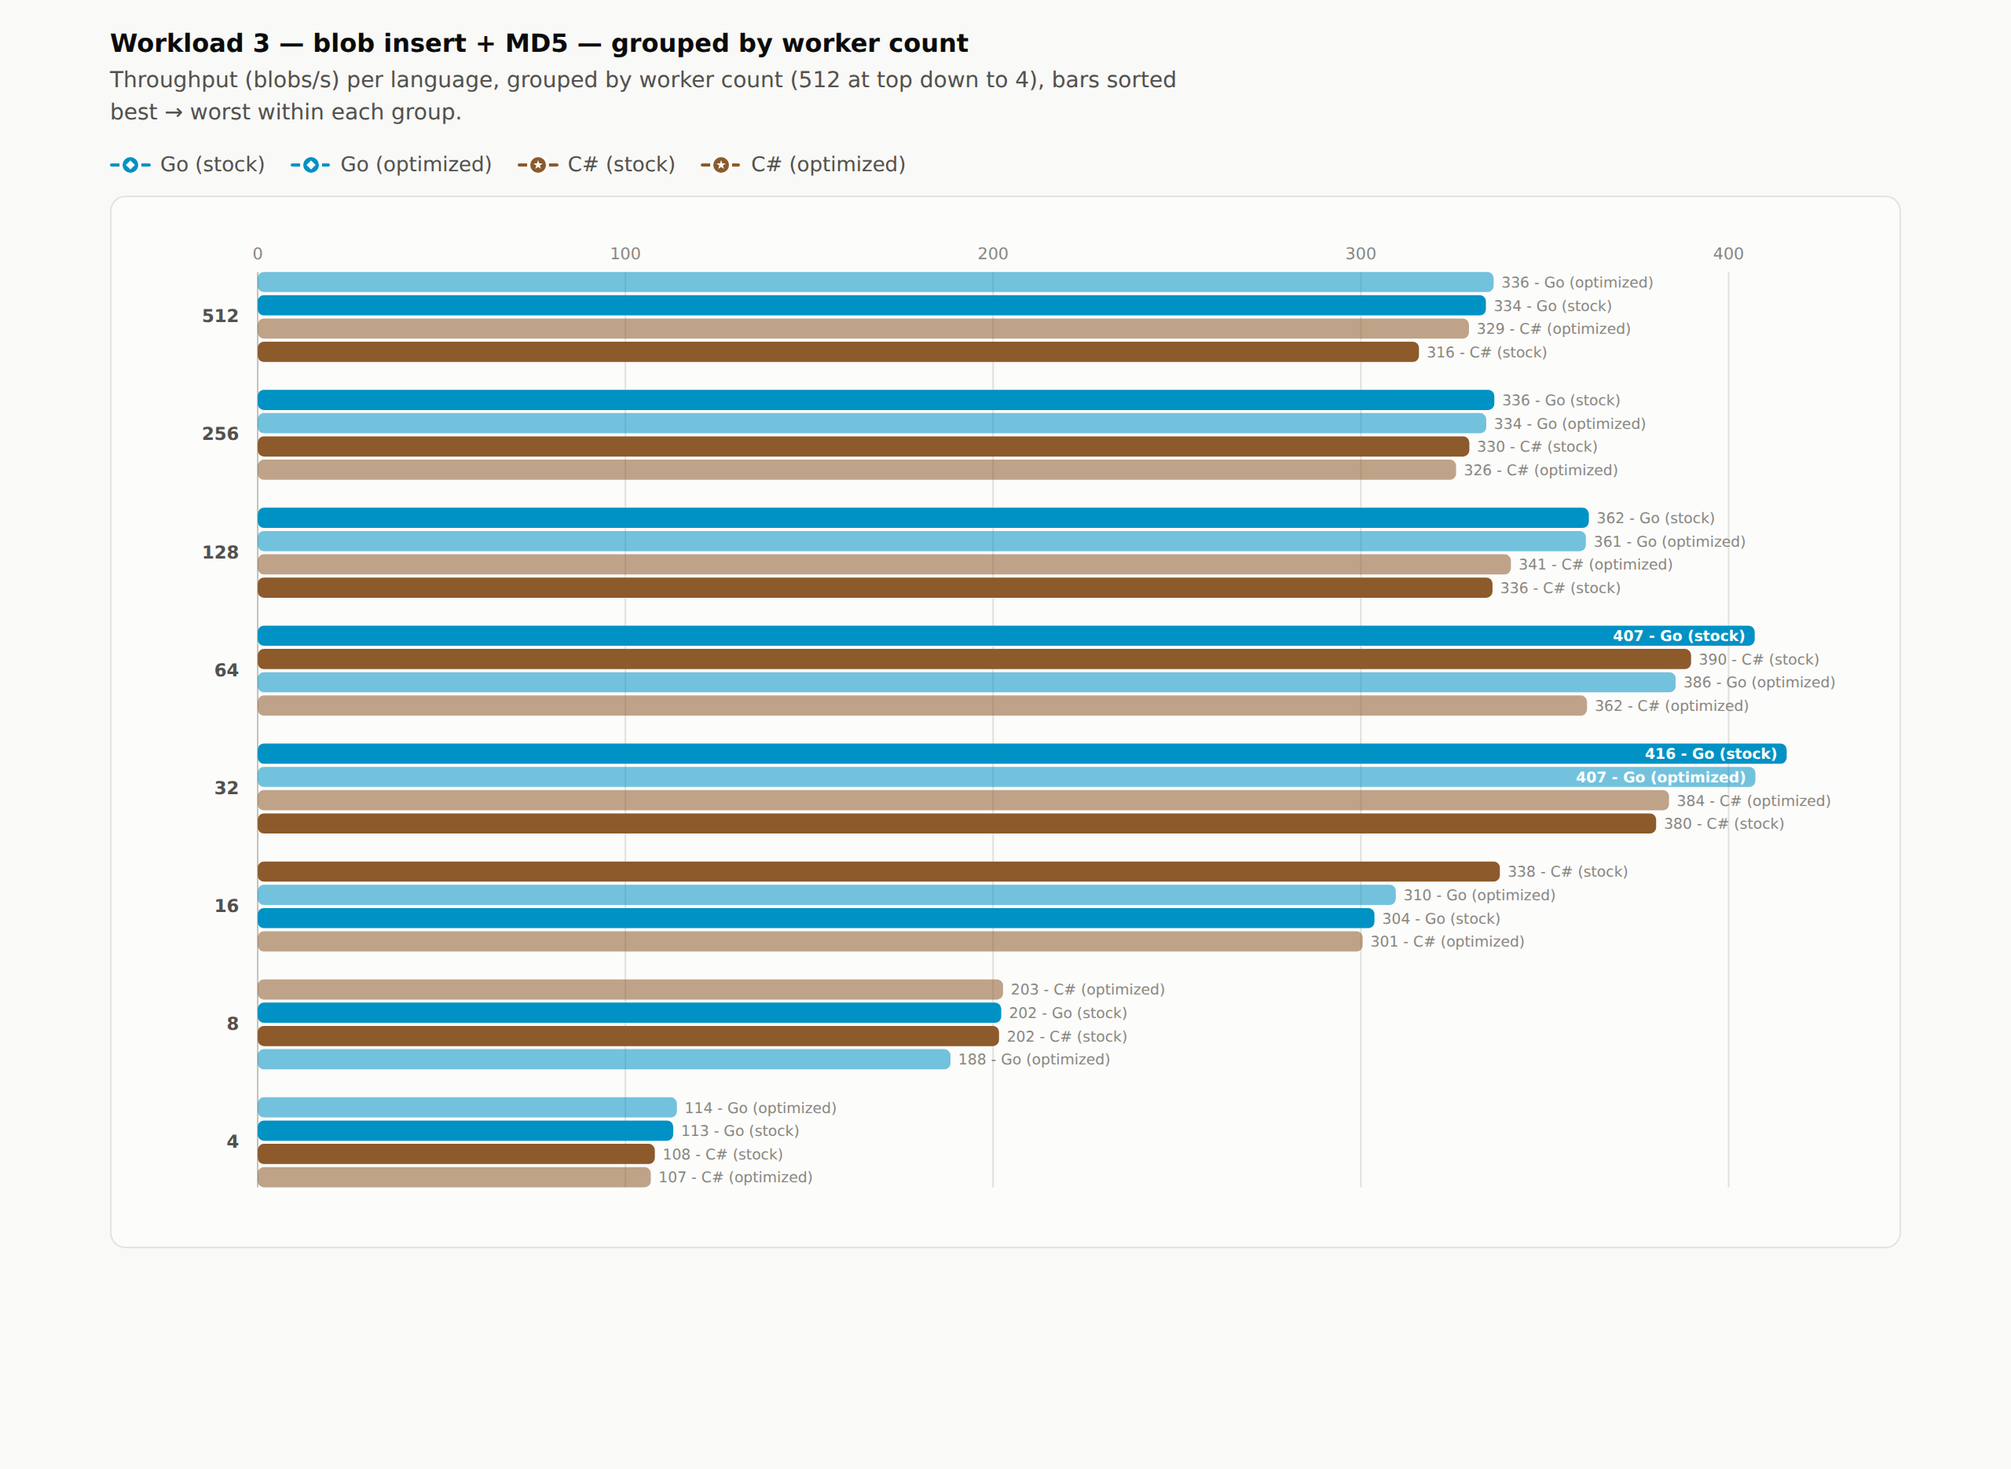
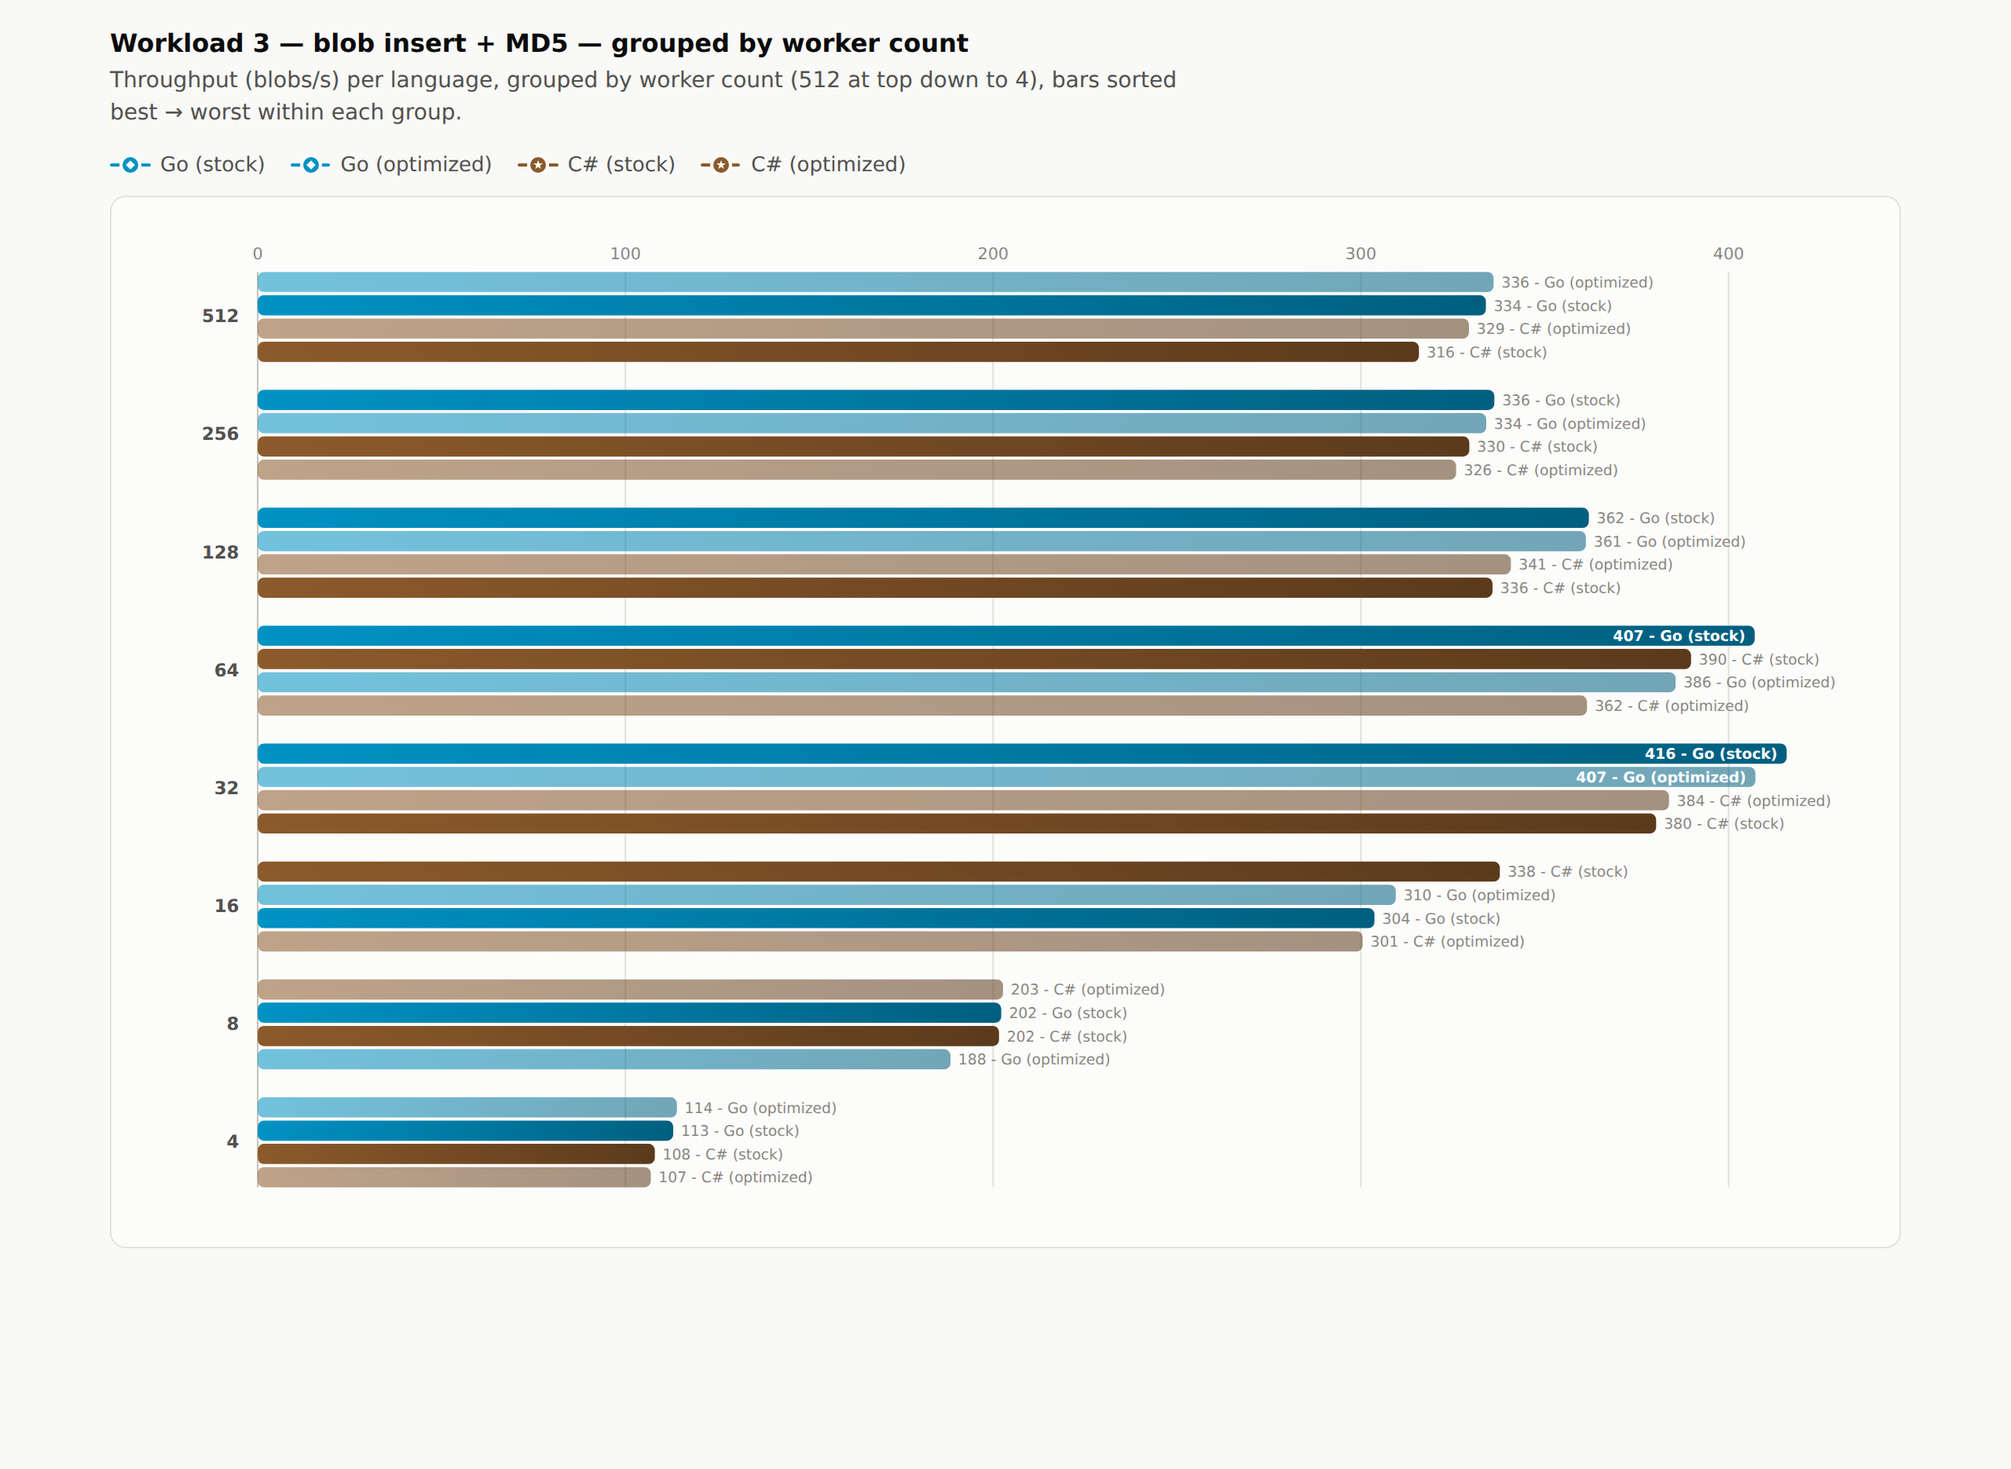
report: give bars a left-to-right color-to-35%-darker gradient
Each bar now fills with a horizontal gradient: the series color at the bar
start fading to a 35%-darker companion at the tip. The palette moved into
generate_html_report.py as the single source of truth so a --cat-N-d (35%
darker) var is emitted per hue for both light and dark surfaces; gradient
stops reference those CSS vars (via inline style) so they stay theme-reactive,
and objectBoundingBox units make every bar span its own full gradient.

Changed region(s): [[0.25, 0.1861, 0.9062, 0.7444], [0.1875, 0.7444, 0.3438, 0.8064]]

diff --git a/report/report.html b/report/report.html
@@ -11,9 +11,8 @@
     --text-primary: #0b0b0b; --text-secondary: #52514e; --muted: #898781;
     --grid: #e1e0d9; --baseline: #c3c2b7; --band: #898781;
     --border: rgba(11,11,11,0.10);
-    --cat-1: #2a78d6; --cat-2: #eb6834; --cat-3: #1baf7a; --cat-4: #eda100;
-    --cat-5: #e87ba4; --cat-6: #008300; --cat-7: #6250d6; --cat-8: #e34948;
-    --cat-9: #84b000; --cat-10: #0092c4; --cat-11: #8c5a2b; --cat-12: #b5174e; --cat-13: #00847c;
+    --cat-1: #2a78d6; --cat-2: #eb6834; --cat-3: #1baf7a; --cat-4: #eda100; --cat-5: #e87ba4; --cat-6: #008300; --cat-7: #6250d6; --cat-8: #e34948; --cat-9: #84b000; --cat-10: #0092c4; --cat-11: #8c5a2b; --cat-12: #b5174e; --cat-13: #00847c;
+      --cat-1-d: #1b4e8b; --cat-2-d: #994422; --cat-3-d: #12724f; --cat-4-d: #9a6900; --cat-5-d: #97506b; --cat-6-d: #005500; --cat-7-d: #40348b; --cat-8-d: #942f2f; --cat-9-d: #567200; --cat-10-d: #005f7f; --cat-11-d: #5b3a1c; --cat-12-d: #760f33; --cat-13-d: #005651;
   }
   @media (prefers-color-scheme: dark) {
     :root:where(:not([data-theme="light"])) .viz-root {
@@ -22,9 +21,8 @@
       --text-primary: #f0efec; --text-secondary: #c3c2b7; --muted: #898781;
       --grid: #2c2c2a; --baseline: #383835; --band: #898781;
       --border: rgba(255,255,255,0.10);
-      --cat-1: #3987e5; --cat-2: #d95926; --cat-3: #199e70; --cat-4: #c98500;
-      --cat-5: #d55181; --cat-6: #008300; --cat-7: #9085e9; --cat-8: #e66767;
-      --cat-9: #a3c636; --cat-10: #35b5e0; --cat-11: #b07845; --cat-12: #d6447c; --cat-13: #2aaea5;
+      --cat-1: #3987e5; --cat-2: #d95926; --cat-3: #199e70; --cat-4: #c98500; --cat-5: #d55181; --cat-6: #008300; --cat-7: #9085e9; --cat-8: #e66767; --cat-9: #a3c636; --cat-10: #35b5e0; --cat-11: #b07845; --cat-12: #d6447c; --cat-13: #2aaea5;
+      --cat-1-d: #255895; --cat-2-d: #8d3a19; --cat-3-d: #106749; --cat-4-d: #835600; --cat-5-d: #8a3554; --cat-6-d: #005500; --cat-7-d: #5e5697; --cat-8-d: #964343; --cat-9-d: #6a8123; --cat-10-d: #227692; --cat-11-d: #724e2d; --cat-12-d: #8b2c51; --cat-13-d: #1b716b;
     }
   }
   :root[data-theme="dark"] .viz-root {
@@ -33,9 +31,8 @@
     --text-primary: #f0efec; --text-secondary: #c3c2b7; --muted: #898781;
     --grid: #2c2c2a; --baseline: #383835; --band: #898781;
     --border: rgba(255,255,255,0.10);
-    --cat-1: #3987e5; --cat-2: #d95926; --cat-3: #199e70; --cat-4: #c98500;
-    --cat-5: #d55181; --cat-6: #008300; --cat-7: #9085e9; --cat-8: #e66767;
-    --cat-9: #a3c636; --cat-10: #35b5e0; --cat-11: #b07845; --cat-12: #d6447c; --cat-13: #2aaea5;
+    --cat-1: #3987e5; --cat-2: #d95926; --cat-3: #199e70; --cat-4: #c98500; --cat-5: #d55181; --cat-6: #008300; --cat-7: #9085e9; --cat-8: #e66767; --cat-9: #a3c636; --cat-10: #35b5e0; --cat-11: #b07845; --cat-12: #d6447c; --cat-13: #2aaea5;
+      --cat-1-d: #255895; --cat-2-d: #8d3a19; --cat-3-d: #106749; --cat-4-d: #835600; --cat-5-d: #8a3554; --cat-6-d: #005500; --cat-7-d: #5e5697; --cat-8-d: #964343; --cat-9-d: #6a8123; --cat-10-d: #227692; --cat-11-d: #724e2d; --cat-12-d: #8b2c51; --cat-13-d: #1b716b;
   }
   * { box-sizing: border-box; }
   body.viz-root { margin: 0; background: var(--page); color: var(--text-primary);
@@ -431,6 +428,19 @@ const PAGE_BARS = false;
     const step = niceStep(yMax, 5);
     const X = v => BM.l + (v/yMax)*BIW;
     const svg = el("svg", { viewBox: `0 0 ${BW} ${BH}`, role: "img", "aria-label": cfg.ariaLabel });
+    // One left->right gradient per palette slot used: the series color at the
+    // bar start (x=0) fading to its 35%-darker companion at the bar tip (x=1).
+    // objectBoundingBox units make each bar span its own full gradient. Stops
+    // use CSS vars via inline style so they stay theme-reactive.
+    const slotOf = d => (d.st.color.match(/--cat-(\d+)/) || [])[1];
+    const gdefs = el("defs", {});
+    for (const sl of [...new Set(cfg.seriesDefs.map(slotOf).filter(Boolean))]) {
+      const g = el("linearGradient", { id: `g-${cfg.hostId}-${sl}`, x1: "0", y1: "0", x2: "1", y2: "0" });
+      const s0 = el("stop", { offset: "0" }); s0.style.stopColor = `var(--cat-${sl})`;
+      const s1 = el("stop", { offset: "1" }); s1.style.stopColor = `var(--cat-${sl}-d)`;
+      g.append(s0, s1); gdefs.appendChild(g);
+    }
+    svg.appendChild(gdefs);
     // Throughput gridlines with tick labels along the top.
     for (let k=0; k*step<=yMax+1e-6; k++){ const tv=k*step, x=X(tv);
       svg.appendChild(el("line", { x1: x, x2: x, y1: BM.t, y2: BM.t+BIH, stroke: "var(--grid)", "stroke-width": 1 }));
@@ -452,7 +462,9 @@ const PAGE_BARS = false;
         const by = bandTop + j*(barH+barGap);
         const w = Math.max(1, (v/yMax)*BIW);
         const r = Math.min(4, w, barH/2);
-        const rect = el("rect", { x: BM.l, y: by, width: w, height: barH, rx: r, ry: r, fill: d.st.color });
+        const sl = slotOf(d);
+        const rect = el("rect", { x: BM.l, y: by, width: w, height: barH, rx: r, ry: r,
+          fill: sl ? `url(#g-${cfg.hostId}-${sl})` : d.st.color });
         if (d.st.dash) rect.setAttribute("fill-opacity", "0.55");
         rect.style.cursor = "crosshair";
         rect.addEventListener("pointerenter", ev => showBar(ev, T[ti], d, v, cfg.unit));

diff --git a/report/bars.html b/report/bars.html
@@ -11,9 +11,8 @@
     --text-primary: #0b0b0b; --text-secondary: #52514e; --muted: #898781;
     --grid: #e1e0d9; --baseline: #c3c2b7; --band: #898781;
     --border: rgba(11,11,11,0.10);
-    --cat-1: #2a78d6; --cat-2: #eb6834; --cat-3: #1baf7a; --cat-4: #eda100;
-    --cat-5: #e87ba4; --cat-6: #008300; --cat-7: #6250d6; --cat-8: #e34948;
-    --cat-9: #84b000; --cat-10: #0092c4; --cat-11: #8c5a2b; --cat-12: #b5174e; --cat-13: #00847c;
+    --cat-1: #2a78d6; --cat-2: #eb6834; --cat-3: #1baf7a; --cat-4: #eda100; --cat-5: #e87ba4; --cat-6: #008300; --cat-7: #6250d6; --cat-8: #e34948; --cat-9: #84b000; --cat-10: #0092c4; --cat-11: #8c5a2b; --cat-12: #b5174e; --cat-13: #00847c;
+      --cat-1-d: #1b4e8b; --cat-2-d: #994422; --cat-3-d: #12724f; --cat-4-d: #9a6900; --cat-5-d: #97506b; --cat-6-d: #005500; --cat-7-d: #40348b; --cat-8-d: #942f2f; --cat-9-d: #567200; --cat-10-d: #005f7f; --cat-11-d: #5b3a1c; --cat-12-d: #760f33; --cat-13-d: #005651;
   }
   @media (prefers-color-scheme: dark) {
     :root:where(:not([data-theme="light"])) .viz-root {
@@ -22,9 +21,8 @@
       --text-primary: #f0efec; --text-secondary: #c3c2b7; --muted: #898781;
       --grid: #2c2c2a; --baseline: #383835; --band: #898781;
       --border: rgba(255,255,255,0.10);
-      --cat-1: #3987e5; --cat-2: #d95926; --cat-3: #199e70; --cat-4: #c98500;
-      --cat-5: #d55181; --cat-6: #008300; --cat-7: #9085e9; --cat-8: #e66767;
-      --cat-9: #a3c636; --cat-10: #35b5e0; --cat-11: #b07845; --cat-12: #d6447c; --cat-13: #2aaea5;
+      --cat-1: #3987e5; --cat-2: #d95926; --cat-3: #199e70; --cat-4: #c98500; --cat-5: #d55181; --cat-6: #008300; --cat-7: #9085e9; --cat-8: #e66767; --cat-9: #a3c636; --cat-10: #35b5e0; --cat-11: #b07845; --cat-12: #d6447c; --cat-13: #2aaea5;
+      --cat-1-d: #255895; --cat-2-d: #8d3a19; --cat-3-d: #106749; --cat-4-d: #835600; --cat-5-d: #8a3554; --cat-6-d: #005500; --cat-7-d: #5e5697; --cat-8-d: #964343; --cat-9-d: #6a8123; --cat-10-d: #227692; --cat-11-d: #724e2d; --cat-12-d: #8b2c51; --cat-13-d: #1b716b;
     }
   }
   :root[data-theme="dark"] .viz-root {
@@ -33,9 +31,8 @@
     --text-primary: #f0efec; --text-secondary: #c3c2b7; --muted: #898781;
     --grid: #2c2c2a; --baseline: #383835; --band: #898781;
     --border: rgba(255,255,255,0.10);
-    --cat-1: #3987e5; --cat-2: #d95926; --cat-3: #199e70; --cat-4: #c98500;
-    --cat-5: #d55181; --cat-6: #008300; --cat-7: #9085e9; --cat-8: #e66767;
-    --cat-9: #a3c636; --cat-10: #35b5e0; --cat-11: #b07845; --cat-12: #d6447c; --cat-13: #2aaea5;
+    --cat-1: #3987e5; --cat-2: #d95926; --cat-3: #199e70; --cat-4: #c98500; --cat-5: #d55181; --cat-6: #008300; --cat-7: #9085e9; --cat-8: #e66767; --cat-9: #a3c636; --cat-10: #35b5e0; --cat-11: #b07845; --cat-12: #d6447c; --cat-13: #2aaea5;
+      --cat-1-d: #255895; --cat-2-d: #8d3a19; --cat-3-d: #106749; --cat-4-d: #835600; --cat-5-d: #8a3554; --cat-6-d: #005500; --cat-7-d: #5e5697; --cat-8-d: #964343; --cat-9-d: #6a8123; --cat-10-d: #227692; --cat-11-d: #724e2d; --cat-12-d: #8b2c51; --cat-13-d: #1b716b;
   }
   * { box-sizing: border-box; }
   body.viz-root { margin: 0; background: var(--page); color: var(--text-primary);
@@ -367,6 +364,19 @@ const PAGE_BARS = true;
     const step = niceStep(yMax, 5);
     const X = v => BM.l + (v/yMax)*BIW;
     const svg = el("svg", { viewBox: `0 0 ${BW} ${BH}`, role: "img", "aria-label": cfg.ariaLabel });
+    // One left->right gradient per palette slot used: the series color at the
+    // bar start (x=0) fading to its 35%-darker companion at the bar tip (x=1).
+    // objectBoundingBox units make each bar span its own full gradient. Stops
+    // use CSS vars via inline style so they stay theme-reactive.
+    const slotOf = d => (d.st.color.match(/--cat-(\d+)/) || [])[1];
+    const gdefs = el("defs", {});
+    for (const sl of [...new Set(cfg.seriesDefs.map(slotOf).filter(Boolean))]) {
+      const g = el("linearGradient", { id: `g-${cfg.hostId}-${sl}`, x1: "0", y1: "0", x2: "1", y2: "0" });
+      const s0 = el("stop", { offset: "0" }); s0.style.stopColor = `var(--cat-${sl})`;
+      const s1 = el("stop", { offset: "1" }); s1.style.stopColor = `var(--cat-${sl}-d)`;
+      g.append(s0, s1); gdefs.appendChild(g);
+    }
+    svg.appendChild(gdefs);
     // Throughput gridlines with tick labels along the top.
     for (let k=0; k*step<=yMax+1e-6; k++){ const tv=k*step, x=X(tv);
       svg.appendChild(el("line", { x1: x, x2: x, y1: BM.t, y2: BM.t+BIH, stroke: "var(--grid)", "stroke-width": 1 }));
@@ -388,7 +398,9 @@ const PAGE_BARS = true;
         const by = bandTop + j*(barH+barGap);
         const w = Math.max(1, (v/yMax)*BIW);
         const r = Math.min(4, w, barH/2);
-        const rect = el("rect", { x: BM.l, y: by, width: w, height: barH, rx: r, ry: r, fill: d.st.color });
+        const sl = slotOf(d);
+        const rect = el("rect", { x: BM.l, y: by, width: w, height: barH, rx: r, ry: r,
+          fill: sl ? `url(#g-${cfg.hostId}-${sl})` : d.st.color });
         if (d.st.dash) rect.setAttribute("fill-opacity", "0.55");
         rect.style.cursor = "crosshair";
         rect.addEventListener("pointerenter", ev => showBar(ev, T[ti], d, v, cfg.unit));

diff --git a/report/generate_html_report.py b/report/generate_html_report.py
@@ -25,6 +25,35 @@ OUT = ROOT / "report" / "report.html"
 BARS_OUT = ROOT / "report" / "bars.html"
 PNG_DIR = ROOT / "report" / "png"
 
+# Categorical palette (dataviz slots 1..13), light and dark surfaces. Kept here
+# as the single source of truth so we can also emit a 35%-darker companion of
+# each hue (--cat-N-d), used as the right-hand stop of the bar gradients.
+PAL_LIGHT = {
+    1: "#2a78d6", 2: "#eb6834", 3: "#1baf7a", 4: "#eda100", 5: "#e87ba4",
+    6: "#008300", 7: "#6250d6", 8: "#e34948", 9: "#84b000", 10: "#0092c4",
+    11: "#8c5a2b", 12: "#b5174e", 13: "#00847c",
+}
+PAL_DARK = {
+    1: "#3987e5", 2: "#d95926", 3: "#199e70", 4: "#c98500", 5: "#d55181",
+    6: "#008300", 7: "#9085e9", 8: "#e66767", 9: "#a3c636", 10: "#35b5e0",
+    11: "#b07845", 12: "#d6447c", 13: "#2aaea5",
+}
+
+
+def darken(hex_color, frac=0.35):
+    """Return hex_color with each RGB channel reduced by `frac` (toward black)."""
+    h = hex_color.lstrip("#")
+    r, g, b = (int(h[i:i+2], 16) for i in (0, 2, 4))
+    k = 1.0 - frac
+    return "#%02x%02x%02x" % (round(r*k), round(g*k), round(b*k))
+
+
+def cat_css(pal):
+    """CSS declarations for the base hues plus their 35%-darker companions."""
+    base = " ".join(f"--cat-{n}: {pal[n]};" for n in sorted(pal))
+    dark = " ".join(f"--cat-{n}-d: {darken(pal[n])};" for n in sorted(pal))
+    return base + "\n      " + dark
+
 DISPLAY = {
     "c": "C", "cpp": "C++", "swift": "Swift", "rust": "Rust", "php": "PHP",
     "java": "Java", "csharp": "C#", "go": "Go", "javascript": "JavaScript",
@@ -171,6 +200,8 @@ def main():
             "__TITLE__": title,
             "__H1__": h1,
             "__NAV__": nav,
+            "__CAT_LIGHT__": cat_css(PAL_LIGHT),
+            "__CAT_DARK__": cat_css(PAL_DARK),
         }.items():
             html = html.replace(k, v)
         out_path.write_text(html)
@@ -245,9 +276,7 @@ HTML_TEMPLATE = r"""<!DOCTYPE html>
     --text-primary: #0b0b0b; --text-secondary: #52514e; --muted: #898781;
     --grid: #e1e0d9; --baseline: #c3c2b7; --band: #898781;
     --border: rgba(11,11,11,0.10);
-    --cat-1: #2a78d6; --cat-2: #eb6834; --cat-3: #1baf7a; --cat-4: #eda100;
-    --cat-5: #e87ba4; --cat-6: #008300; --cat-7: #6250d6; --cat-8: #e34948;
-    --cat-9: #84b000; --cat-10: #0092c4; --cat-11: #8c5a2b; --cat-12: #b5174e; --cat-13: #00847c;
+    __CAT_LIGHT__
   }
   @media (prefers-color-scheme: dark) {
     :root:where(:not([data-theme="light"])) .viz-root {
@@ -256,9 +285,7 @@ HTML_TEMPLATE = r"""<!DOCTYPE html>
       --text-primary: #f0efec; --text-secondary: #c3c2b7; --muted: #898781;
       --grid: #2c2c2a; --baseline: #383835; --band: #898781;
       --border: rgba(255,255,255,0.10);
-      --cat-1: #3987e5; --cat-2: #d95926; --cat-3: #199e70; --cat-4: #c98500;
-      --cat-5: #d55181; --cat-6: #008300; --cat-7: #9085e9; --cat-8: #e66767;
-      --cat-9: #a3c636; --cat-10: #35b5e0; --cat-11: #b07845; --cat-12: #d6447c; --cat-13: #2aaea5;
+      __CAT_DARK__
     }
   }
   :root[data-theme="dark"] .viz-root {
@@ -267,9 +294,7 @@ HTML_TEMPLATE = r"""<!DOCTYPE html>
     --text-primary: #f0efec; --text-secondary: #c3c2b7; --muted: #898781;
     --grid: #2c2c2a; --baseline: #383835; --band: #898781;
     --border: rgba(255,255,255,0.10);
-    --cat-1: #3987e5; --cat-2: #d95926; --cat-3: #199e70; --cat-4: #c98500;
-    --cat-5: #d55181; --cat-6: #008300; --cat-7: #9085e9; --cat-8: #e66767;
-    --cat-9: #a3c636; --cat-10: #35b5e0; --cat-11: #b07845; --cat-12: #d6447c; --cat-13: #2aaea5;
+    __CAT_DARK__
   }
   * { box-sizing: border-box; }
   body.viz-root { margin: 0; background: var(--page); color: var(--text-primary);
@@ -574,6 +599,19 @@ const PAGE_BARS = __PAGE_BARS__;
     const step = niceStep(yMax, 5);
     const X = v => BM.l + (v/yMax)*BIW;
     const svg = el("svg", { viewBox: `0 0 ${BW} ${BH}`, role: "img", "aria-label": cfg.ariaLabel });
+    // One left->right gradient per palette slot used: the series color at the
+    // bar start (x=0) fading to its 35%-darker companion at the bar tip (x=1).
+    // objectBoundingBox units make each bar span its own full gradient. Stops
+    // use CSS vars via inline style so they stay theme-reactive.
+    const slotOf = d => (d.st.color.match(/--cat-(\d+)/) || [])[1];
+    const gdefs = el("defs", {});
+    for (const sl of [...new Set(cfg.seriesDefs.map(slotOf).filter(Boolean))]) {
+      const g = el("linearGradient", { id: `g-${cfg.hostId}-${sl}`, x1: "0", y1: "0", x2: "1", y2: "0" });
+      const s0 = el("stop", { offset: "0" }); s0.style.stopColor = `var(--cat-${sl})`;
+      const s1 = el("stop", { offset: "1" }); s1.style.stopColor = `var(--cat-${sl}-d)`;
+      g.append(s0, s1); gdefs.appendChild(g);
+    }
+    svg.appendChild(gdefs);
     // Throughput gridlines with tick labels along the top.
     for (let k=0; k*step<=yMax+1e-6; k++){ const tv=k*step, x=X(tv);
       svg.appendChild(el("line", { x1: x, x2: x, y1: BM.t, y2: BM.t+BIH, stroke: "var(--grid)", "stroke-width": 1 }));
@@ -595,7 +633,9 @@ const PAGE_BARS = __PAGE_BARS__;
         const by = bandTop + j*(barH+barGap);
         const w = Math.max(1, (v/yMax)*BIW);
         const r = Math.min(4, w, barH/2);
-        const rect = el("rect", { x: BM.l, y: by, width: w, height: barH, rx: r, ry: r, fill: d.st.color });
+        const sl = slotOf(d);
+        const rect = el("rect", { x: BM.l, y: by, width: w, height: barH, rx: r, ry: r,
+          fill: sl ? `url(#g-${cfg.hostId}-${sl})` : d.st.color });
         if (d.st.dash) rect.setAttribute("fill-opacity", "0.55");
         rect.style.cursor = "crosshair";
         rect.addEventListener("pointerenter", ev => showBar(ev, T[ti], d, v, cfg.unit));
